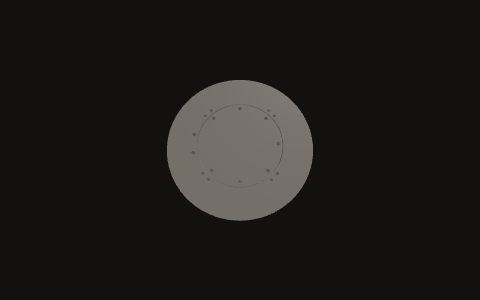
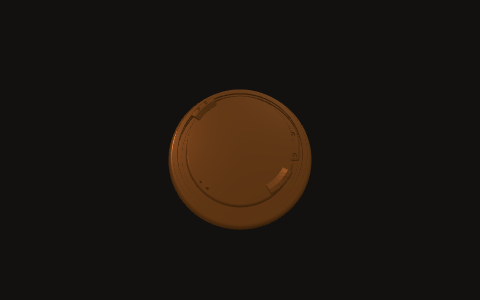
fix: flip medallion and give it a copper metal material
- rotate the model to the opposite face
- replace default solid material with warm metal
- add a warm fill light for metal highlights
- regenerate the project still to match

Changed region(s): [[0.3438, 0.27, 0.6562, 0.78]]

diff --git a/app/components/FbxModelViewer.tsx b/app/components/FbxModelViewer.tsx
@@ -75,6 +75,10 @@ export function FbxModelViewer({
     directionalLight.position.set(5, 10, 7);
     scene.add(directionalLight);
 
+    const fillLight = new THREE.DirectionalLight(0xffd7b5, 0.55);
+    fillLight.position.set(-6, 4, 8);
+    scene.add(fillLight);
+
     let model: THREE.Group | null = null;
     let animationId: number | null = null;
     let isVisible = true;
@@ -99,19 +103,29 @@ export function FbxModelViewer({
       group.traverse((child) => {
         if ((child as THREE.Mesh).isMesh) {
           const mesh = child as THREE.Mesh;
+          const materialStyle =
+            config.material ?? (config.wireframe === false ? "solid" : "wireframe");
+
           mesh.material =
-            config.wireframe === false
+            materialStyle === "metal"
               ? new THREE.MeshStandardMaterial({
-                  color: 0xc9c2b7,
-                  roughness: 0.55,
-                  metalness: 0.12,
+                  color: 0xb87333,
+                  roughness: 0.32,
+                  metalness: 0.55,
                   side: THREE.DoubleSide,
                 })
-              : new THREE.MeshStandardMaterial({
-                  color: 0xffffff,
-                  emissive: 0x111111,
-                  wireframe: true,
-                });
+              : materialStyle === "solid"
+                ? new THREE.MeshStandardMaterial({
+                    color: 0xc9c2b7,
+                    roughness: 0.55,
+                    metalness: 0.12,
+                    side: THREE.DoubleSide,
+                  })
+                : new THREE.MeshStandardMaterial({
+                    color: 0xffffff,
+                    emissive: 0x111111,
+                    wireframe: true,
+                  });
         }
       });
 

diff --git a/app/data/craftProjects.ts b/app/data/craftProjects.ts
@@ -81,9 +81,9 @@ export const craftProjects: CraftProject[] = [
       path: "/models/medallion.stl",
       cameraZ: 30,
       cameraY: -8,
-      wireframe: false,
+      material: "metal",
       scale: 0.1,
-      initialRotation: 3.14159,
+      initialRotation: 0,
       label: "FreeCAD assembly",
       dimensions: "63 mm board / 276 mm chassis",
     },

diff --git a/app/lib/content.ts b/app/lib/content.ts
@@ -50,6 +50,7 @@ export interface CraftProject {
     scale?: number;
     initialRotation?: number;
     wireframe?: boolean;
+  material?: "default" | "metal" | "wireframe";
     label?: string;
     dimensions?: string;
   };

diff --git a/app/lib/types.ts b/app/lib/types.ts
@@ -11,6 +11,7 @@ export interface ProjectModelConfig {
   scale?: number;
   initialRotation?: number;
   wireframe?: boolean;
+  material?: "default" | "metal" | "wireframe";
   label?: string;
   dimensions?: string;
 }

diff --git a/docs/compose/spec/portfolio-rebuild.md b/docs/compose/spec/portfolio-rebuild.md
@@ -31,7 +31,7 @@ source: feat/portfolio-v2
 
 **Architecture pass** — UML now explains the pipeline before the live demo and requires a user-supplied key; Systems leads with a general workflow and presents the diagrams as two artifacts.
 
-**Detail pass** — Workflow dots, ghost-word clipping and chapter-rail clearance were corrected. **Anchor pass** — Section jumps now target the section titles with a direct pixel destination, so Engineering and Craft land at the heading instead of the boundary. **Brand pass** — The identity widened from AI-focused to management, finance, leadership, communication, art and design plus technology; the enterprise platform role now says integrate, not build. **Working-notes pass** — Numbers and ordered-list semantics were removed; the section now describes how the work tends to go, not a sequence to follow. **Workflow pass** — The generic Frame/Model/Verify sequence was replaced with the real listen, imagine, estimate, structure, build, hand-over process. **Revert pass** — All demos moved back to Craft, Engineering ends at Current, and the UML architecture is a collapsed details panel. **Frame refinement** — Thumbnail frames are clean paper/dark outlines only; the external geometry was removed. **Content pass** — Thumbnail mounts were lightened, event roles and PDSS model IDs were corrected, Craft was reframed around fun and usefulness, and the T-shaped model was added to Capabilities. **Ornament pass** — Thumbnail mounts gained thin geometric decoration; project actions and demo distribution were committed in the preceding pass. **Structure pass** — Demos were distributed into Engineering, Craft and Systems, the standalone Demos chapter was removed, and project actions are visible on collapsed rows. **Positioning pass** — The portfolio now leads with generalist breadth and specialist depth, with a six-part capability map and no oversized glyph. All 3D models are bounding-box centred and pulled back, with regenerated thumbnails. Case study rows also received framed, purpose-drawn diagrams.
+**Medallion pass** — The medallion now faces the other way and renders as warm copper metal; its still was regenerated. **Detail pass** — Workflow dots, ghost-word clipping and chapter-rail clearance were corrected. **Anchor pass** — Section jumps now target the section titles with a direct pixel destination, so Engineering and Craft land at the heading instead of the boundary. **Brand pass** — The identity widened from AI-focused to management, finance, leadership, communication, art and design plus technology; the enterprise platform role now says integrate, not build. **Working-notes pass** — Numbers and ordered-list semantics were removed; the section now describes how the work tends to go, not a sequence to follow. **Workflow pass** — The generic Frame/Model/Verify sequence was replaced with the real listen, imagine, estimate, structure, build, hand-over process. **Revert pass** — All demos moved back to Craft, Engineering ends at Current, and the UML architecture is a collapsed details panel. **Frame refinement** — Thumbnail frames are clean paper/dark outlines only; the external geometry was removed. **Content pass** — Thumbnail mounts were lightened, event roles and PDSS model IDs were corrected, Craft was reframed around fun and usefulness, and the T-shaped model was added to Capabilities. **Ornament pass** — Thumbnail mounts gained thin geometric decoration; project actions and demo distribution were committed in the preceding pass. **Structure pass** — Demos were distributed into Engineering, Craft and Systems, the standalone Demos chapter was removed, and project actions are visible on collapsed rows. **Positioning pass** — The portfolio now leads with generalist breadth and specialist depth, with a six-part capability map and no oversized glyph. All 3D models are bounding-box centred and pulled back, with regenerated thumbnails. Case study rows also received framed, purpose-drawn diagrams.
 
 **Verification** — `npm run typecheck` PASS. `npm run build` PASS, prerendering `/`, `/engineering`, `/craft`, `/about`, `/contact`, `/projects`, the three case pages and five craft pages, then writing the SPA fallback and `404.html`. Manual visual checks at 1440px and 390px. Independent review returned no remaining critical or major issues after fixes for the duplicate H1, link names, duplicate Eccentricity page, redirect metadata and data-derived prerender slugs.
 
@@ -282,6 +282,12 @@ The UML generator's architecture is now a native `<details>` panel, closed by de
 - Ghost section words start 20px into the hero rather than above it, so they are not clipped at the top.
 - The chapter rail has more clearance from copy: 260px content margin, 32px edge offset and a 164px rail width.
 
+### S2.33 Medallion material and orientation
+
+- The medallion is rotated to face the opposite side (`initialRotation: 0`).
+- Wireframe was too noisy for the 65k-triangle STL, so it uses a dedicated warm-metal material: copper colour, metalness 0.55, roughness 0.32, double-sided. A second warm fill light was added to the viewer for metal reads.
+- The static project thumbnail was regenerated with the same orientation and material.
+
 ### S2.7 Performance and accessibility
 
 Demos stay lazy-loaded and mount only when visible. Fonts are self-hosted and subset. Targets: Lighthouse performance 90+ on both landings, no layout shift from fonts, 4.5:1 body contrast, visible focus rings, skip link, semantic heading order, keyboard-operable chooser.
@@ -300,6 +306,7 @@ CMS, blog, authentication, newsletter, multilingual UI, redesign of demo interna
 - [x] T46: Case accuracy — acceptance: event roles and PDSS model IDs match the recorded sources. (covers: S2.28)
 - [x] T45: Craft framing — acceptance: Craft leads with fun and usefulness. (covers: S2.29)
 - [x] T44: T-shaped framing — acceptance: Engineering uses the T concretely for range and depth. (covers: S2.27)
+- [x] T56: Medallion material and facing — acceptance: opposite face and a non-default metal material in live and still views. (covers: S2.33)
 - [x] T55: Detail alignment — acceptance: dots sit on rules, ghost words are not clipped, and the rail clears copy. (covers: S2.32)
 - [x] T54: Title-anchored section jumps — acceptance: chooser, nav and rail land with the section title at 88px. (covers: S2.1)
 - [x] T53: Multifaceted branding — acceptance: management, finance, leadership, communication, art/design and technology are all present; AI/ML remains a technical specialization. (covers: S2.21)
